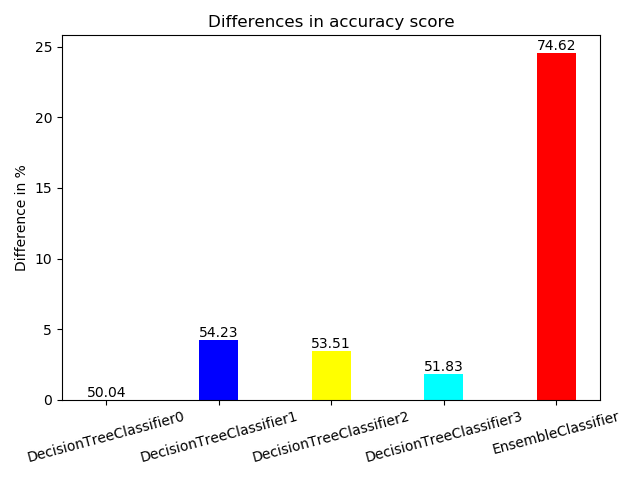
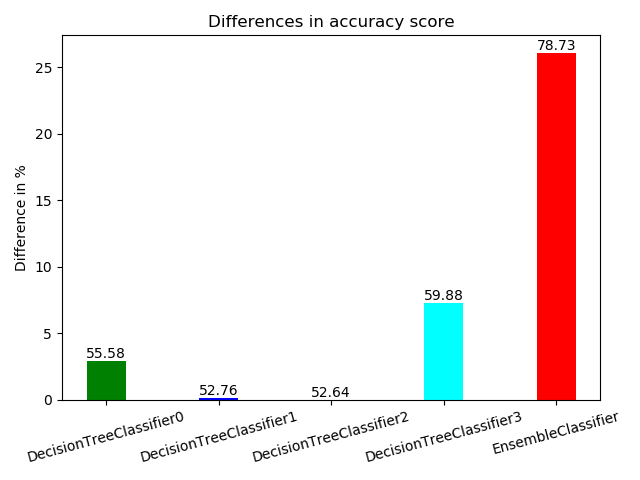
Added new feature: every agent is specialist in each area

diff --git a/main.py b/main.py
@@ -10,18 +10,41 @@ from RegressionAgent import RegressionAgent
 import DataVisualizer
 from math import floor
 import matplotlib.pyplot as plt
+from enum import Enum
+from LabelMapper import LabelMapper
+
 
 average = [Ensemble.ARITHMETIC]
 
 models_list = [[Model.DECISION_TREE, Model.DECISION_TREE, Model.DECISION_TREE, Model.DECISION_TREE],
                [Model.DECISION_TREE, Model.DECISION_TREE, Model.DECISION_TREE, Model.DECISION_TREE],
-               [Model.SVR, Model.SVR, Model.SVR, Model.SVR],
+               [Model.DECISION_TREE, Model.DECISION_TREE, Model.DECISION_TREE, Model.DECISION_TREE],
                [Model.K_NEIGHBORS, Model.K_NEIGHBORS, Model.K_NEIGHBORS, Model.K_NEIGHBORS],
-               [Model.BAYESIAN_RIDGE, Model.BAYESIAN_RIDGE, Model.BAYESIAN_RIDGE, Model.BAYESIAN_RIDGE]
+               [Model.K_NEIGHBORS, Model.K_NEIGHBORS, Model.K_NEIGHBORS, Model.K_NEIGHBORS],
                ]
 
-split_dataset = [False, True, True, True, True]
+labels_group = [
+    [LabelMapper.bedrooms, LabelMapper.bathrooms, LabelMapper.sqft_above, LabelMapper.sqft_living15],
+    [LabelMapper.sqft_living, LabelMapper.sqft_above, LabelMapper.sqft_living15, LabelMapper.grade],
+    [LabelMapper.yr_built, LabelMapper.long, LabelMapper.grade, LabelMapper.floors],
+    [LabelMapper.sqft_lot, LabelMapper.sqft_lot15, LabelMapper.floors, LabelMapper.waterfront]
+]
+
+class SplitDataset(Enum):
+    NONE = 0,
+    BAGGING = 1,
+    AGENT = 2
+
+split_dataset = [
+    SplitDataset.NONE,
+    SplitDataset.BAGGING,
+    SplitDataset.AGENT,
+    SplitDataset.BAGGING,
+    SplitDataset.AGENT,
+    ]
+
 number_of_agents = 4
+
 
 def divide_into_train_test(df):
     X = df.drop(['id', 'date', 'price'], axis=1)
@@ -31,6 +54,21 @@ def divide_into_train_test(df):
     X_train, X_test, y_train, y_test = train_test_split(X_scaled, y, test_size=0.2)
     return X_train, y_train, X_test, y_test
 
+def divide_train_sets_for_agents(x_train_set, x_test_set):
+    x_train_list = []
+    x_test_list = []
+
+    for i in range(number_of_agents):
+        groups = [label.value[0] for label in labels_group[i]]
+        groups.sort();
+
+        extracted_train_data = x_train_set[:, groups]
+        x_train_list.append(extracted_train_data);
+
+        extracted_test_data = x_test_set[:, groups]
+        x_test_list.append(extracted_test_data);
+
+    return x_train_list, x_test_list
 
 if __name__ == '__main__':
     df = pd.read_csv('./housesalesprediction/kc_house_data.csv')
@@ -38,7 +76,7 @@ if __name__ == '__main__':
 
     iterator = 0
 
-    DataVisualizer.print_corelation_heatmap(df);
+    #DataVisualizer.print_corelation_heatmap(df);
 
     ns = run_nameserver()
     agents = [run_agent(f'RegressionAgent{i}', base=RegressionAgent) for i in range(number_of_agents)]
@@ -48,19 +86,24 @@ if __name__ == '__main__':
     for avg in average:
         for models, split in zip(models_list, split_dataset):
             number_of_agents = len(models)
-            if split:
+            if split == SplitDataset.BAGGING:
                 divisions = [0, 0.25, 0.50, 0.75, 1.0]
                 n_samples = len(x_train)
                 x_train_list = [x_train[floor(divisions[i] * n_samples):floor(divisions[i + 1] * n_samples)] for i in
                                 range(number_of_agents)]  # divide x_train for 4 equal parts
                 y_train_list = [y_train[floor(divisions[i] * n_samples):floor(divisions[i + 1] * n_samples)] for i in
                                 range(number_of_agents)]  # divide y_train for 4 equal parts
-            else:
+                x_test_list = [x_test for _ in range(number_of_agents)]
+            elif split == SplitDataset.NONE:
                 x_train_list = [x_train for _ in range(number_of_agents)]
+                y_train_list = [y_train for _ in range(number_of_agents)]
+                x_test_list = [x_test for _ in range(number_of_agents)]
+            elif split == SplitDataset.AGENT:
+                x_train_list, x_test_list = divide_train_sets_for_agents(x_train, x_test)
                 y_train_list = [y_train for _ in range(number_of_agents)]
 
             for i in range(number_of_agents):
-                agents[i].initialize_agent(models[i], x_train_list[i], y_train_list[i], x_test, y_test, str(i))
+                agents[i].initialize_agent(models[i], x_train_list[i], y_train_list[i], x_test_list[i], y_test, str(i))
                 agents[i].calculate()
 
             master_agent.set_true_labels(y_test)
@@ -72,7 +115,7 @@ if __name__ == '__main__':
             time.sleep(3)
             master_agent.calculate_final_prediction(avg)
             metrics = master_agent.get_metrics()
-            DataVisualizer.print_metrics(metrics, f'{avg}_{iterator}')
+            DataVisualizer.print_metrics(metrics, f'{avg.name}_{iterator}', split)
 
             master_agent.clean_cache()
             master_agent.debug()

diff --git a/DataVisualizer.py b/DataVisualizer.py
@@ -17,7 +17,7 @@ def print_dataset_info(df):
     df.isnull().any()
 
 
-def print_metrics(metrics, id):
+def print_metrics(metrics, id, split):
     ind = np.arange(len(metrics))
     width = 0.35
     vals = np.array(list(metrics.values()))*100
@@ -31,4 +31,4 @@ def print_metrics(metrics, id):
     plt.title('Differences in accuracy score')
     plt.xticks(ind, (metrics.keys()), rotation=15)
     plt.tight_layout()
-    plt.savefig(f'figures/metric{id}.png')
+    plt.savefig(f'figures/metric_{split.name}_{id}.png')

diff --git a/LabelMapper.py b/LabelMapper.py
@@ -1,0 +1,21 @@
+from enum import Enum
+
+class LabelMapper(Enum):
+    bedrooms = 0,
+    bathrooms = 1,
+    sqft_living = 2,
+    sqft_lot = 3,
+    floors = 4,
+    waterfront = 5,
+    view = 6,
+    condition = 7,
+    grade = 8,
+    sqft_above = 9,
+    sqft_basement = 10,
+    yr_built = 11,
+    yr_renovated = 12,
+    zipcode = 13,
+    lat = 14,
+    long = 15,
+    sqft_living15= 16,
+    sqft_lot15 = 17,
